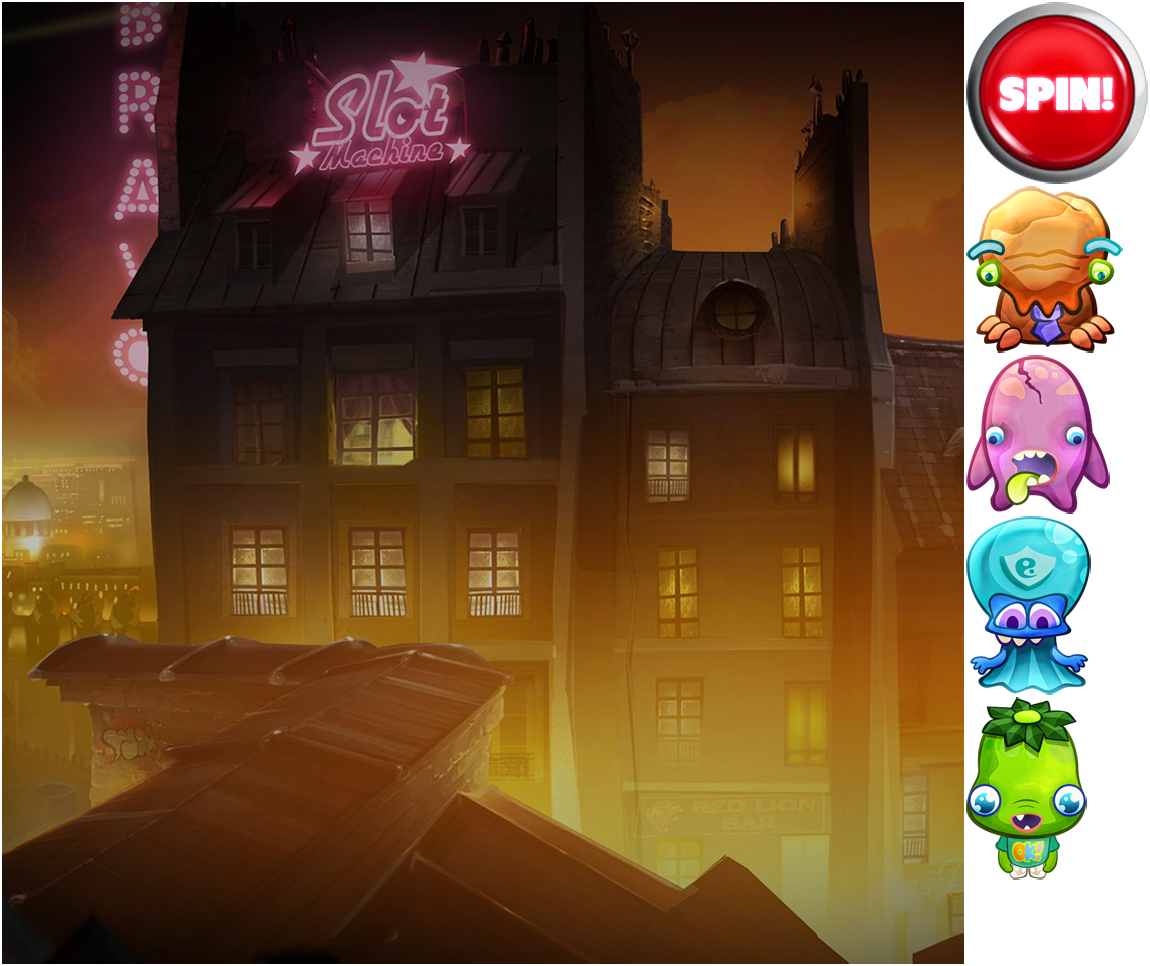
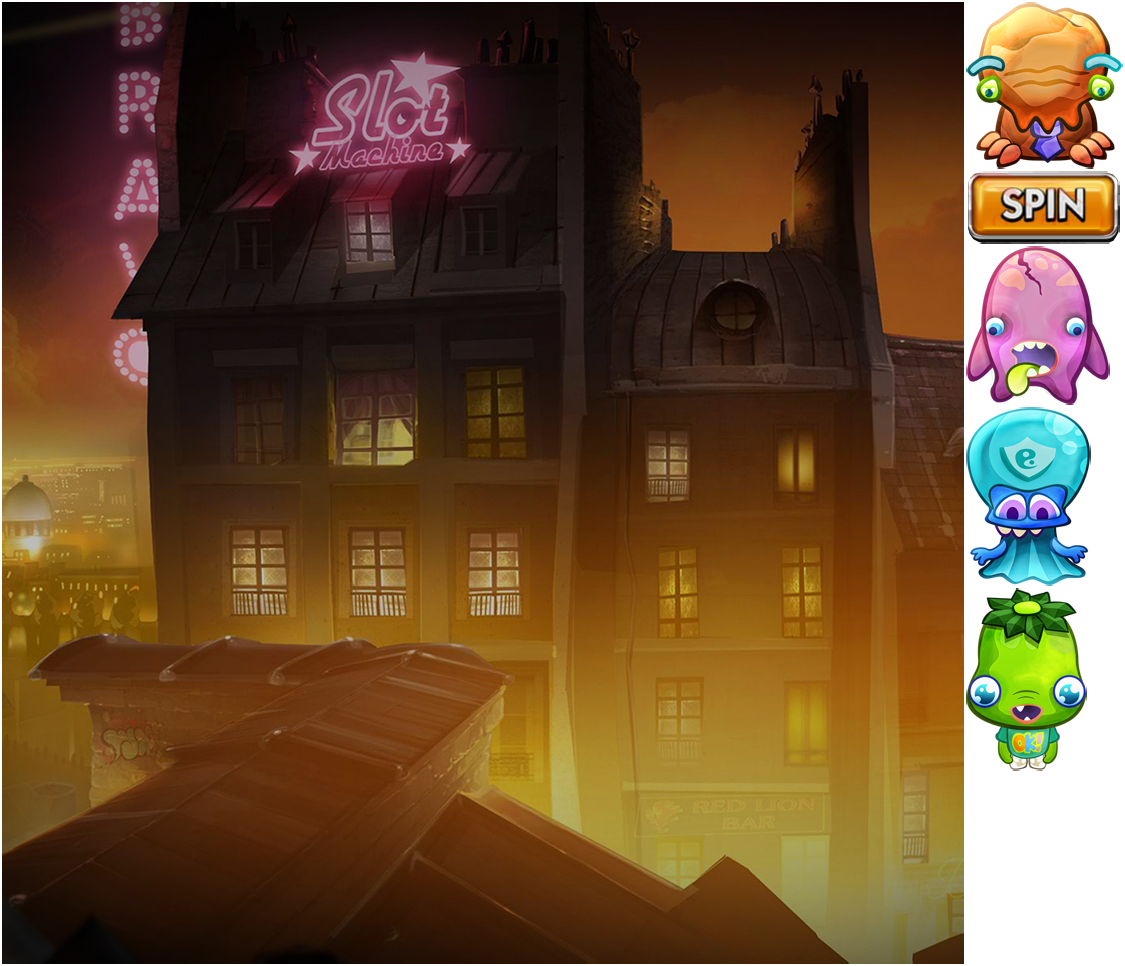
resize handling, reels

diff --git a/src/framework/view/view.js b/src/framework/view/view.js
@@ -1,14 +1,21 @@
 import * as PIXI from 'pixi.js';
+import Reel from "../components/reel";
+import MachineButton from "../components/machineButton";
 
 export default class View extends PIXI.Container{
-    constructor() {
+    constructor(app, model) {
         super();
+
+        this._app = app;
+        this._model = model;
 
         this.setup();
     }
 
     setup(){
         this.createBackground();
+        this.createReels();
+        this.createSpinButton();
     }
 
     createBackground(){
@@ -18,5 +25,69 @@ export default class View extends PIXI.Container{
         this._background.anchor.set(0.5, 0.5);
 
         this.addChild(this._background);
+    }
+
+    createReels(){
+        this._reelWrapper = new PIXI.Container();
+
+        for (let i = 0; i < this.REEL_AMOUNT; i++){
+            let reel = new Reel(this._model);
+
+            let totalWidth = reel.REEL_WIDTH * this.REEL_AMOUNT + this.REEL_GAP_X * (this.REEL_AMOUNT - 1);
+            let firstReelOffset = -totalWidth * 0.5 + reel.REEL_WIDTH * 0.5;
+            reel.position.x = firstReelOffset + i * this.REEL_GAP_X + i * reel.REEL_WIDTH;
+
+            this._reelWrapper.addChild(reel);
+        }
+
+        this.addChild(this._reelWrapper);
+    }
+
+    createSpinButton(){
+        let texture = PIXI.loader.resources["atlas"].textures["spinButton.png"];
+        this._machineButton = new MachineButton(texture);
+        this._machineButton.on('pointerdown', this.onMachineButtonTapped);
+
+        this.addChild(this._machineButton);
+    }
+
+    onMachineButtonTapped(){
+        console.log('tap');
+    }
+
+    applyLayoutPortrait(){
+        if (this._reelWrapper){
+            // TODO: make responsive reels scaling
+            this._reelWrapper.scale.x = this._reelWrapper.scale.y = 0.5;
+            this._reelWrapper.position.x = 0;
+            this._reelWrapper.position.y = 0;
+        }
+
+        if (this._machineButton){
+            this._machineButton.position.x = 0;
+            this._machineButton.position.y = this._app.screen.height * 0.5 / this.scale.y - this._machineButton.height - 30;
+        }
+    }
+
+    applyLayoutLandscape(){
+        if (this._reelWrapper){
+            // TODO: make responsive reels scaling
+            this._reelWrapper.scale.x = this._reelWrapper.scale.y = 0.8;
+            this._reelWrapper.position.x = -100;
+            this._reelWrapper.position.y = 0;
+        }
+
+        if (this._machineButton){
+            this._machineButton.position.x = this._app.screen.width * 0.5 / this.scale.x - this._machineButton.width * 0.5 - 30;
+            this._machineButton.position.y = this._app.screen.height * 0.5 / this.scale.y - this._machineButton.height * 0.5 - 30;
+        }
+    }
+
+    get REEL_AMOUNT(){
+        return 5;
+    }
+
+    get REEL_GAP_X(){
+        return 10;
     }
 }

diff --git a/src/framework/components/reel.js b/src/framework/components/reel.js
@@ -1,0 +1,60 @@
+import * as PIXI from "pixi.js";
+
+export default class Reel extends PIXI.Container{
+    constructor(model){
+        super();
+
+        this._model = model;
+        this.setup();
+    }
+
+    setup(){
+        this.createBackground();
+        this.setupSymbols();
+    }
+
+    createBackground(){
+        let posX = -this.SYMBOL_WIDTH * 0.5 - this.MARGIN;
+        let posY = - this.SYMBOL_HEIGHT * this._model.ROWS_AMOUNT * 0.5;
+        let rWidth = this.SYMBOL_WIDTH + 2 * this.MARGIN;
+        let rHeight = this.SYMBOL_HEIGHT * this._model.ROWS_AMOUNT;
+
+        this._background = new PIXI.Graphics();
+        this._background.beginFill(0xfffeec);
+        this._background.drawRect(posX, posY, rWidth, rHeight);
+        this._background.endFill();
+
+        this.addChild(this._background);
+    }
+
+    setupSymbols(){
+        // var slotTextures = [
+        //     PIXI.Texture.fromImage("required/assets/eggHead.png"),
+        //     PIXI.Texture.fromImage("required/assets/flowerTop.png"),
+        //     PIXI.Texture.fromImage("required/assets/helmlok.png"),
+        //     PIXI.Texture.fromImage("required/assets/skully.png")
+        // ];
+        // this._background = new PIXI.Sprite(
+        //     PIXI.loader.resources["atlas"].textures["background.png"]
+        // );
+        // this._background.anchor.set(0.5, 0.5);
+        //
+        // this.addChild(this._background);
+    }
+
+    get MARGIN(){
+        return 10;
+    }
+
+    get SYMBOL_WIDTH(){
+        return PIXI.loader.resources["atlas"].textures["symbol0.png"].width;
+    }
+
+    get SYMBOL_HEIGHT(){
+        return PIXI.loader.resources["atlas"].textures["symbol0.png"].height;
+    }
+
+    get REEL_WIDTH(){
+        return this._background.width;
+    }
+}

diff --git a/src/framework/controller/controller.js b/src/framework/controller/controller.js
@@ -1,4 +1,5 @@
 import View from "../view/view";
+import Model from "../../model/model";
 
 export default class Controller {
     constructor(app){
@@ -8,21 +9,22 @@ export default class Controller {
     }
 
     setup(){
+        this.createModel();
         this.createView();
     }
 
+    createModel(){
+        this._model = new Model();
+    }
+
     createView(){
-        this._view = new View();
+        this._view = new View(this._app, this._model);
         this._app.stage.addChild(this._view);
     }
 
     handleResize(){
-        // let ratio = Math.min(960 / this._app.renderer.width, 960 / this._app.renderer.height);
-        // this._view.scale.x = this._view.scale.y = ratio;
-
-        // renderer.resize(Math.ceil(WIDTH * ratio), Math.ceil(HEIGHT * ratio));
-        // console.log(this._app.screen.width, this._app.screen.height);
-        // return;
+        let ratio = this._app.screen.width < this._app.screen.height ? this._app.screen.height / 960 : this._app.screen.width / 960;
+        this._view.scale.x = this._view.scale.y = ratio;
 
         if (this._app.screen.width < this._app.screen.height)
             this.applyLayoutPortrait();
@@ -34,16 +36,12 @@ export default class Controller {
     }
 
     applyLayoutPortrait(){
-        let ratio = this._app.screen.height / 960;
-        this._view.scale.x = this._view.scale.y = ratio;
-
-        console.log('portrait');
+        if (this._view)
+            this._view.applyLayoutPortrait();
     }
 
     applyLayoutLandscape(){
-        let ratio = this._app.screen.width / 960;
-        this._view.scale.x = this._view.scale.y = ratio;
-
-        console.log('landscape');
+        if (this._view)
+            this._view.applyLayoutLandscape();
     }
 }

diff --git a/src/framework/components/machineButton.js b/src/framework/components/machineButton.js
@@ -1,0 +1,7 @@
+export default class MachineButton extends PIXI.Sprite{
+    constructor(texture){
+        super(texture);
+
+        this.anchor.set(0.5, 0.5);
+    }
+}

diff --git a/src/model/model.js b/src/model/model.js
@@ -1,0 +1,9 @@
+export default class Model {
+    constructor(){
+
+    }
+
+    get ROWS_AMOUNT(){
+        return 3;
+    }
+}
